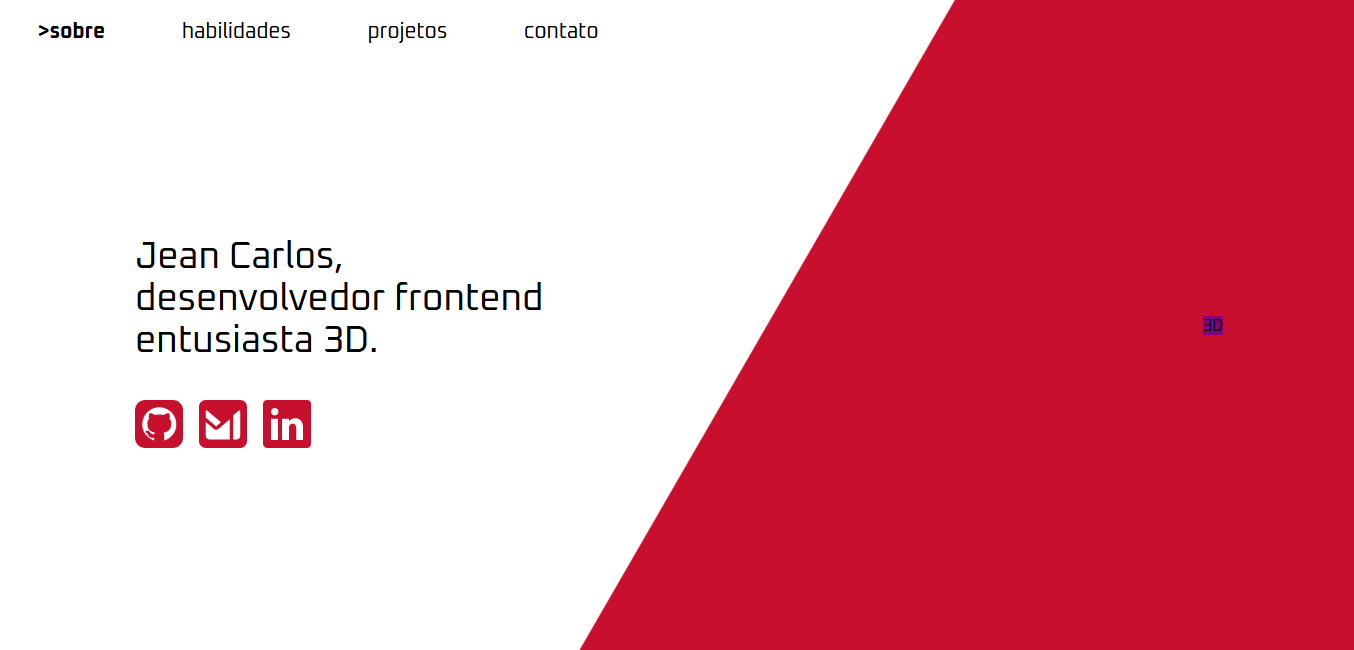
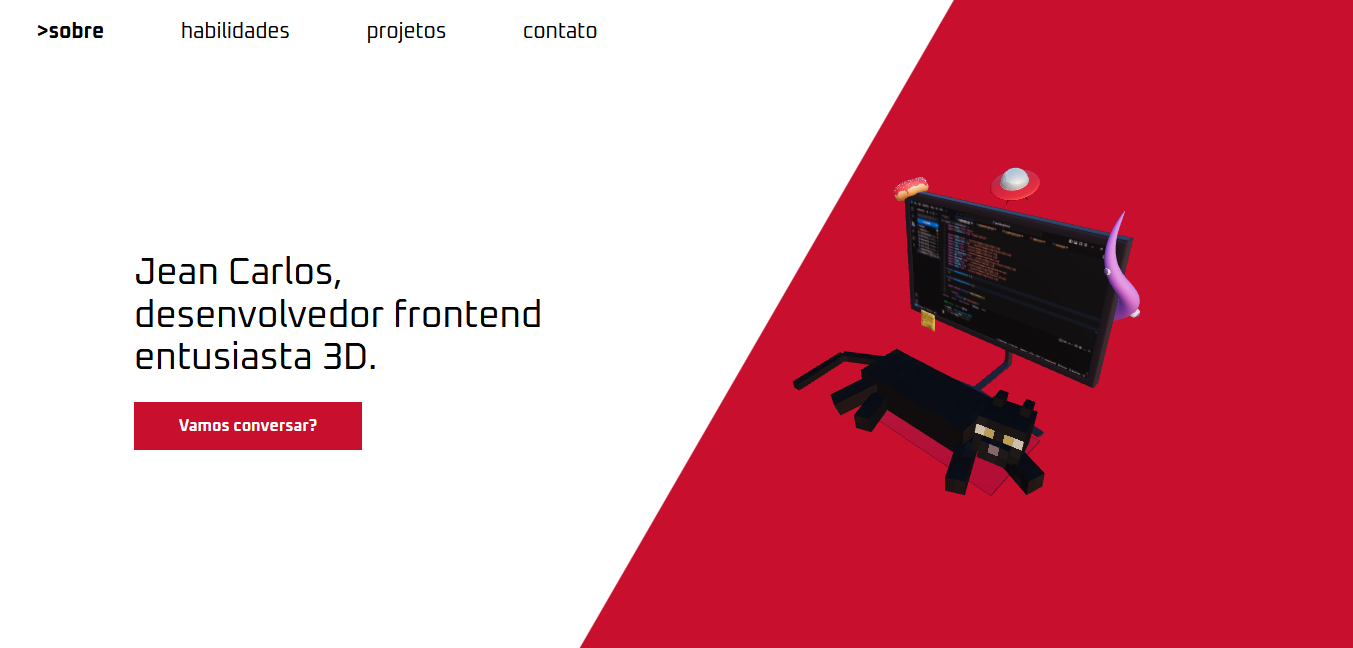
Few fixes

diff --git a/src/pages/Home.jsx b/src/pages/Home.jsx
@@ -1,12 +1,15 @@
-import React, { Suspense } from "react"
+import React, { Suspense, useRef } from "react"
 import { Link } from "react-router-dom";
+
 import { motion, AnimatePresence } from "framer-motion"
 
 import Model from '../assets/Model.jsx'
 
-import { Canvas } from "@react-three/fiber";
-import { OrbitControls, Environment, CameraControls } from "@react-three/drei";
+import { Canvas, useFrame } from "@react-three/fiber";
+import { Environment, CameraControls } from "@react-three/drei";
+
 export default function Home() {
+
 
     return (
         <section id="home">
@@ -26,9 +29,9 @@ export default function Home() {
                                 <div key='threeD' className="threeD-element">
                                     <Canvas>
                                         <ambientLight />
-                                        <CameraControls distance={.6} polarAngle={1} azimuthAngle={0} boundaryEnclosesCamera={false}/>
+                                        <CameraControls distance={.41} polarAngle={1} azimuthAngle={0} boundaryEnclosesCamera={false} />
                                         <Suspense fallback={null}>
-                                            <Model />
+                                            <Model/>
                                         </Suspense>
                                         <Environment preset="sunset" />
                                     </Canvas>
@@ -62,7 +65,7 @@ export default function Home() {
                                 exit={{ opacity: 0, x: '10rem' }}
                                 transition={{ duration: .75, ease: 'backInOut', delay: .2 }}>
                                 <Canvas>
-                                    <CameraControls distance={.65} polarAngle={.99} azimuthAngle={.7} boundaryEnclosesCamera={false}/>
+                                    <CameraControls distance={.65} polarAngle={.99} azimuthAngle={.7} boundaryEnclosesCamera={false} />
                                     <Suspense fallback={null}>
                                         <Model />
                                     </Suspense>

diff --git a/index.html b/index.html
@@ -1,14 +1,19 @@
 <!doctype html>
 <html lang="en">
-  <head>
-    <meta charset="UTF-8" />
-    <link rel="icon" type="image/svg+xml" href="/vite.svg" />
-    <meta name="viewport" content="width=device-width, initial-scale=1.0" />
-    <link rel="stylesheet" href="./src/normalize.css">
-    <title>jaen3dev</title>
-  </head>
-  <body>
-    <div id="root"></div>
-    <script type="module" src="/src/main.jsx"></script>
-  </body>
+
+<head>
+  <meta charset="UTF-8" />
+  <link rel="icon" type="image/svg+xml" href="/j3d.ico" />
+  <meta name="viewport" content="width=device-width, initial-scale=1.0" />
+  <meta name="description" content="Programador e entusiasta 3D">
+  <meta name="keyword" content="portfolio, javascript, developer, 3d, react, threejs">
+  <link rel="stylesheet" href="./src/normalize.css">
+  <title>jaen3dev</title>
+</head>
+
+<body>
+  <div id="root"></div>
+  <script type="module" src="/src/main.jsx"></script>
+</body>
+
 </html>

diff --git a/src/assets/Model.jsx b/src/assets/Model.jsx
@@ -11,7 +11,7 @@ export default function Model(props) {
   const { actions, names } = useAnimations(animations, group)
   console.log(names)
 
-  useEffect(()=>{
+  useEffect(() => {
 
     actions[names[0]].reset().fadeIn(2.5).play()
     actions[names[1]].reset().fadeIn(2.5).play()
@@ -27,11 +27,11 @@ export default function Model(props) {
     actions[names[11]].reset().fadeIn(2.5).play()
     actions[names[12]].reset().fadeIn(2.5).play()
 
-  },[])
+  }, [])
 
   return (
     <group ref={group} {...props} dispose={null}>
-      <group name="Scene">
+      <group name="Scene" position={[0,-0.15,0]}>
         <mesh
           name="Tela_3"
           castShadow

diff --git a/src/styles.scss b/src/styles.scss
@@ -243,8 +243,6 @@ body {
                 margin: 2rem 0rem;
                 padding: 1rem;
 
-                canvas{
-                }
             }
 
             a {
@@ -334,7 +332,7 @@ body {
 
                 canvas{
                     height: max-content;
-                    margin-top: 4rem;
+                    margin-top: 1rem;
                     overflow: visible;
                 }
             }
